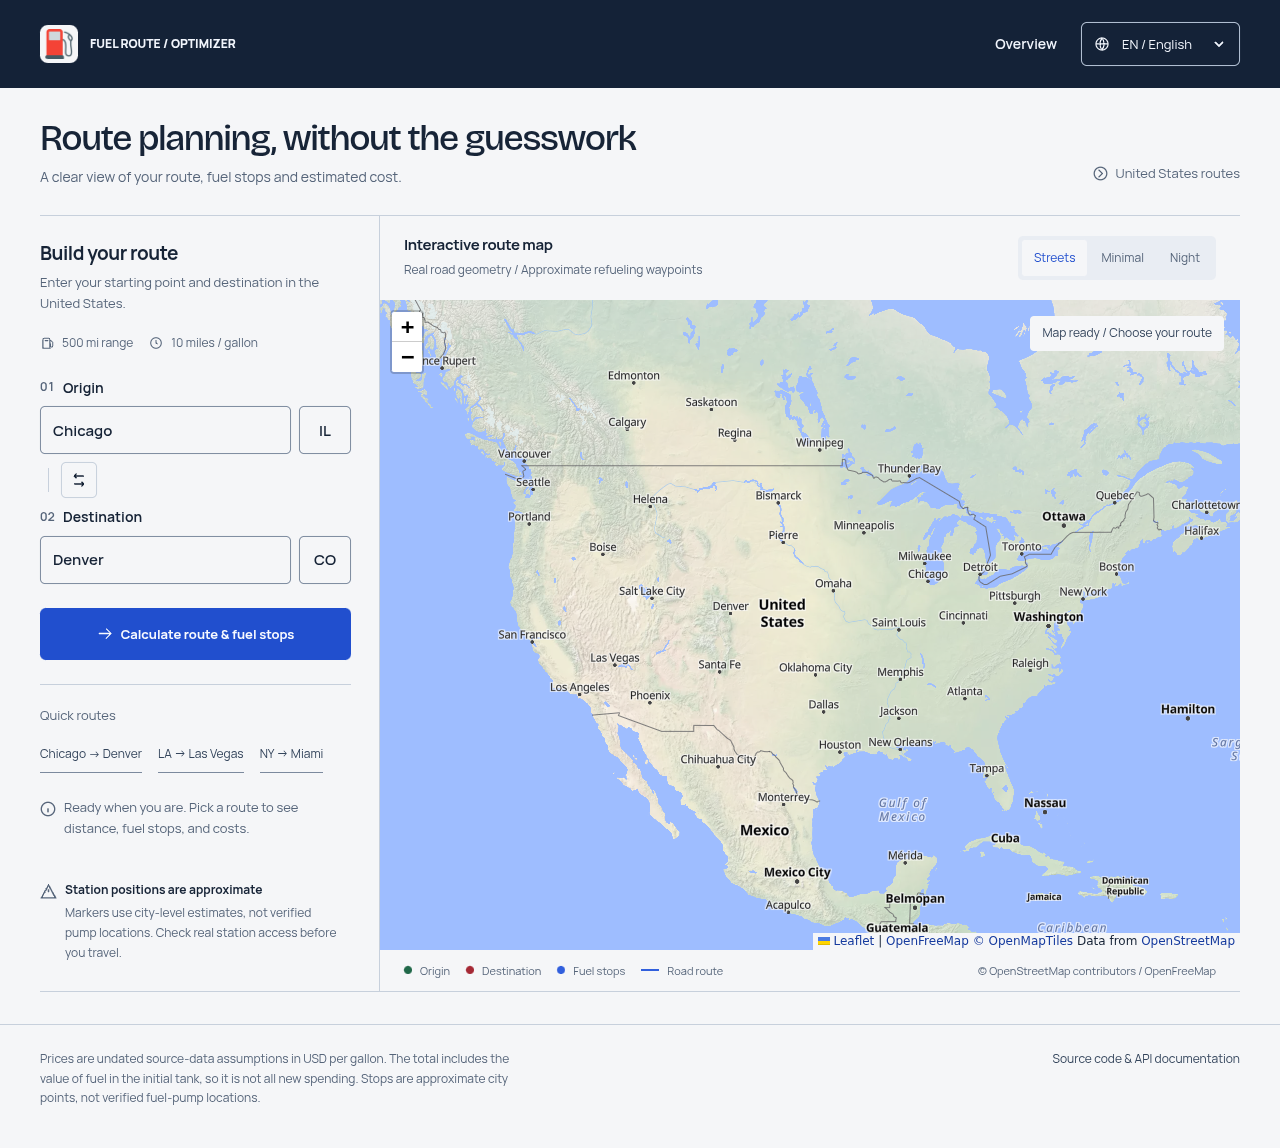
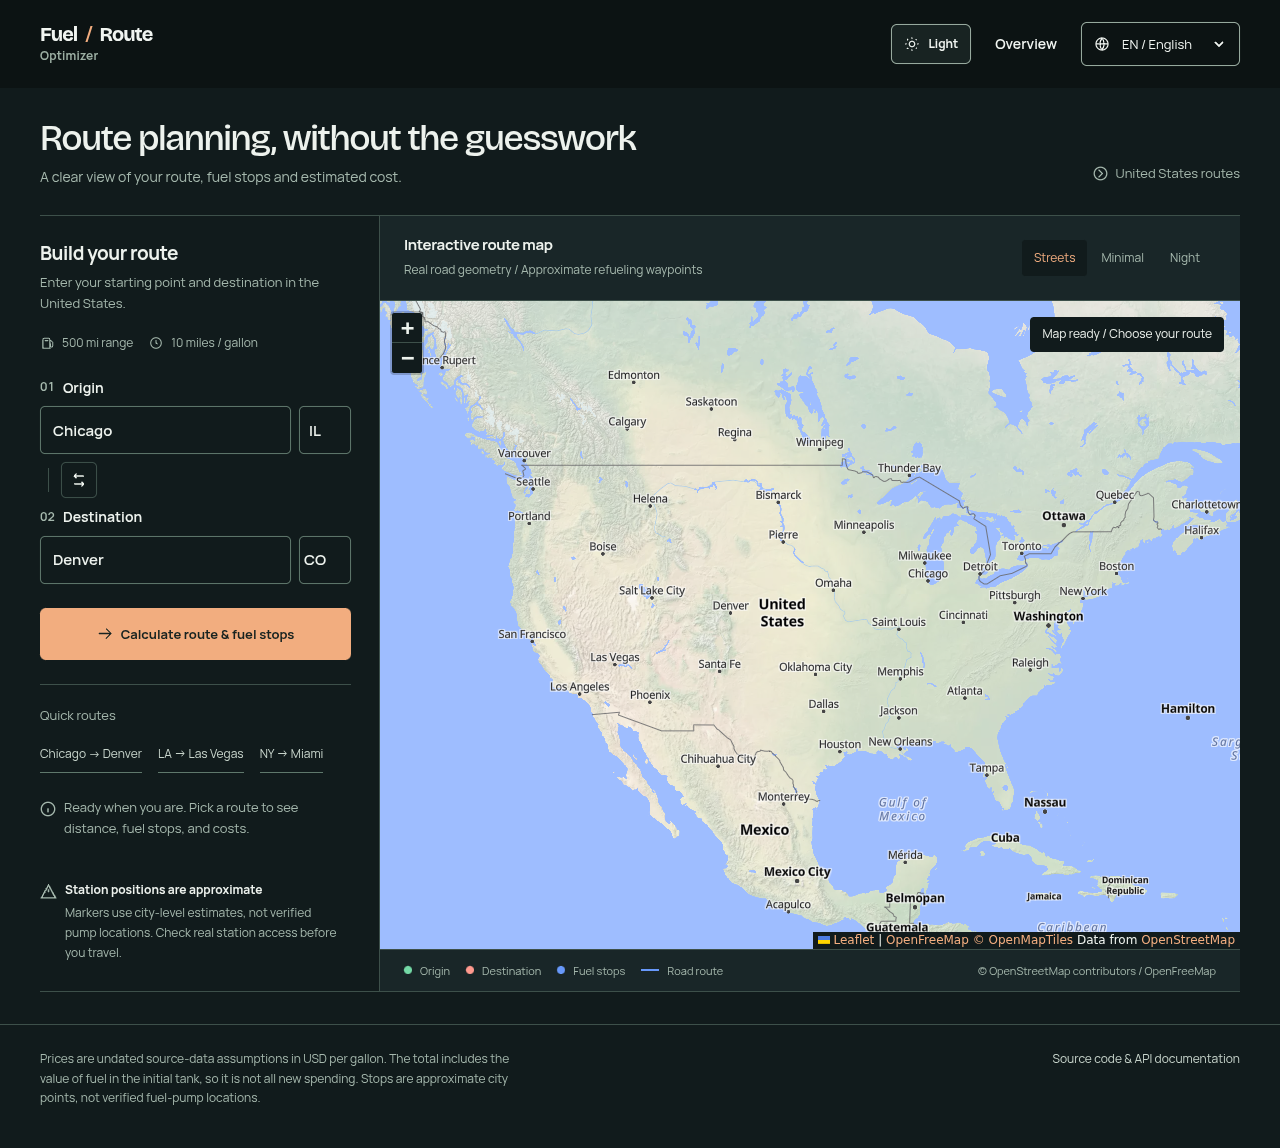
mejoras

diff --git a/scripts/verify_preserved.py b/scripts/verify_preserved.py
@@ -1,9 +1,18 @@
 """Check the redesign against the original committed UI contract."""
+from collections import Counter
 from html.parser import HTMLParser
 from pathlib import Path
 import json
 import re
 import subprocess
+
+# The redesign may only add these script tags on top of the original contract:
+# the theme bootstrap (inline), the theme runtime and the landing runtime.
+ALLOWED_EXTRA_SCRIPTS = Counter({
+    (None, None): 1,                          # inline theme bootstrap
+    (None, '/static/routes/theme.js'): 1,
+    (None, '/static/routes/landing.js'): 1,
+})
 
 class Contract(HTMLParser):
     def __init__(self, source):
@@ -30,7 +39,10 @@ for page in ('landing', 'demo'):
     assert old.links <= new.links, (page, 'lost links', old.links-new.links)
     assert old.fields <= new.fields, (page, 'lost fields', old.fields-new.fields)
     assert old.ids - {'grid'} <= new.ids, (page, 'lost ids', old.ids-new.ids)
-    assert old.scripts == new.scripts, (page, 'changed script loading')
+    old_scripts, new_scripts = Counter(old.scripts), Counter(new.scripts)
+    assert not (old_scripts - new_scripts), (page, 'lost script loading', list(old_scripts - new_scripts))
+    extras = new_scripts - old_scripts
+    assert not (extras - ALLOWED_EXTRA_SCRIPTS), (page, 'unexpected extra script', list(extras - ALLOWED_EXTRA_SCRIPTS))
     assert source.count('<option value=') == 4
     if page == 'demo':
         for endpoint in ('/api/v1/cities/?q=', '/api/v1/routes/optimize/', 'https://tiles.openfreemap.org/styles/liberty'):
